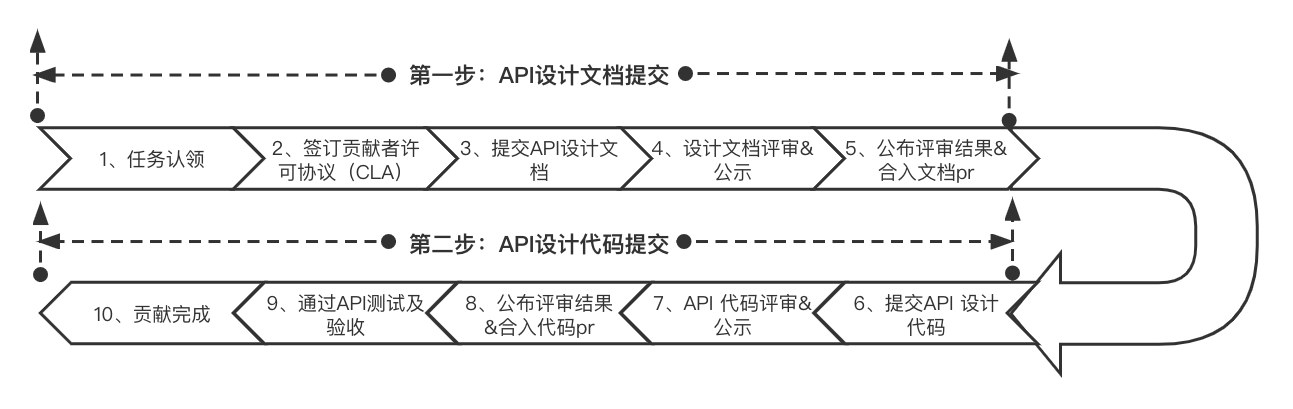
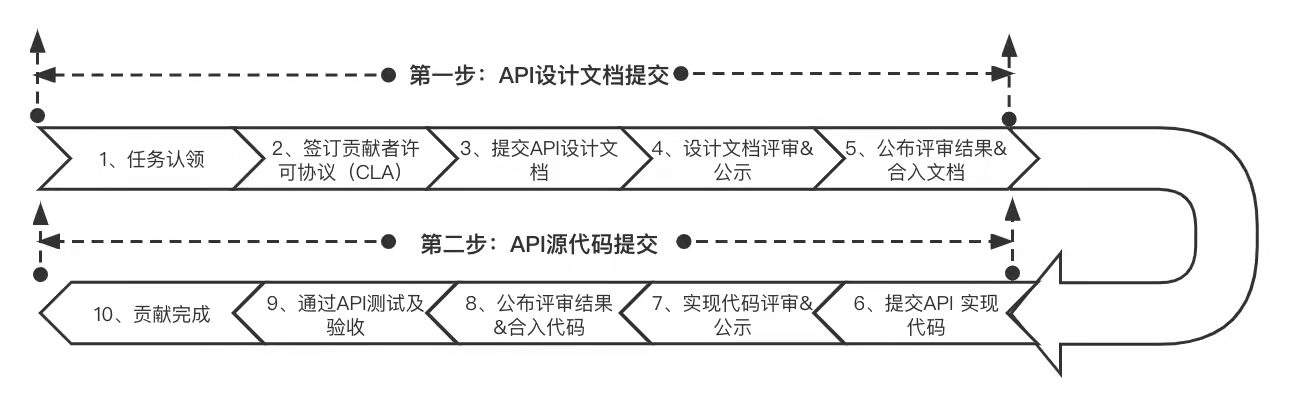
modify api_contributing_guides_cn.rst

diff --git a/docs/dev_guides/api_contributing_guides/api_contributing_guides_cn.rst b/docs/dev_guides/api_contributing_guides/api_contributing_guides_cn.rst
@@ -32,7 +32,7 @@ API 贡献流程如下
 
 当你想要发起一个新增API的贡献时，你需要先提交一份新增API 设计文档，并确保你的API 设计遵守 `飞桨API 设计及命名规范 <./api_design_guidelines_standard_cn.html>`_ 。API设计文档的目的是为了社区开发者更容易的参与开源项目共建，开发者通过与飞桨官方和社区其他用户进行广泛的交流，完善设计方案和pr请求，在后续提交实现代码之前确保API设计方案与飞桨设计理念一致，也让后续代码评审及代码合入变得更加容易。
 
-同时，飞桨为大家提供了 `API 设计文档模版 <https://github.com/PaddlePaddle/community/tree/master/rfcs/APIs/api_design_template.md>`_ ，你可以使用这份模版撰写API设计文档。完成后，你需要将设计文档提交至 `Github开发者社区仓库 <https://github.com/PaddlePaddle/community/tree/master/rfcs/APIs>`_ 。
+同时，飞桨为大家提供了 `API 设计文档模版 <https://github.com/PaddlePaddle/community/tree/master/rfcs/APIs/api_design_template.md>`_ 和 `API 设计文档demo <https://github.com/PaddlePaddle/community/blob/master/rfcs/APIs/20200301_api_design_for_quantile.md>`_ ，你可以使用这份模版撰写API设计文档。完成后，你需要将设计文档提交至 `Github开发者社区仓库 <https://github.com/PaddlePaddle/community/tree/master/rfcs/APIs>`_ ，并根据 `本地开发指南 <https://www.paddlepaddle.org.cn/documentation/docs/zh/develop/dev_guides/git_guides/local_dev_guide_cn.html>`_ 提交PR。
 
 **4、设计文档评审&公示**
 
@@ -41,7 +41,7 @@ API 贡献流程如下
 如果你的API功能比较复杂，官方可能会在社区中针对API设计文档发起评审会议，会提前在pr评论区公布会议时间、会议地址、参会人、议题等内容，请及时关注pr 中最新动态，你也可以在评论区自行申请评审会。会议结束后，我们会在pr中发出会议结论。
 
 
-**5、公布评审结果，合入文档pr**
+**5、公布评审结果&合入文档**
 
 当设计文档评审&公示通过后，官方会在开源社区中公布评审结果，你的API 设计文档将会合入至飞桨开发者社区仓库。
 
@@ -63,28 +63,28 @@ API 贡献流程如下
 +---------------+--------------------------+-------------------------------------------------------------------+
 | 4、API单测代码  |    API验收标准            |  `Github飞桨训练框架仓库 <https://github.com/PaddlePaddle/Paddle>`_  |
 +---------------+--------------------------+-------------------------------------------------------------------+
+| 4、PR          |    本地开发指南            |  `本地开发指南 <https://www.paddlepaddle.org.cn/documentation/docs/zh/develop/dev_guides/git_guides/local_dev_guide_cn.html>`_  |
++---------------+--------------------------+-------------------------------------------------------------------+
 
 
 当用户完成以上代码设计后，需要将代码提交至 `Github飞桨训练框架仓库 <https://github.com/PaddlePaddle/Paddle>`_ ，并准备接受社区的评审。
 
-**7、设计代码公示&评审**
+**7、实现代码评审&公示**
 
 飞桨官方会及时安排专家进行API代码审核，代码也将接受来自开发者社区的评审，开发者可以在pr评论区进行广泛的交流，开发者对飞桨专家和其他开发者的反馈意见进行讨论并做出修改，最终评审通过后会在社区中公示3天，并准备合入。
 
-如果你的API 功能比较复杂，官方可能会在社区中针对API设计代码发起评审会议，会提前在pr评论区公布会议时间、会议地址、参会人、议题等内容，请及时关注pr 中最新动态，你也可以在评论区自行申请评审会。会议结束后，我们会在pr 中发出会议结论。
+如果你的API 功能比较复杂，官方可能会在社区中针对API实现代码发起评审会议，会提前在pr评论区公布会议时间、会议地址、参会人、议题等内容，请及时关注pr 中最新动态，你也可以在评论区自行申请评审会。会议结束后，我们会在pr 中发出会议结论。
 
-**8、公布评审结果，文档合入代码pr**
+**8、公布评审结果&合入代码**
 
-当设计文档评审&公示通过后，官方会在开源社区中公布评审结果，你的API 设计代码将会合入至 `Github飞桨训练框架仓库 <https://github.com/PaddlePaddle/Paddle>`_ 。
+当设计文档评审&公示通过后，官方会在开源社区中公布评审结果，你的API 实现代码将会合入至 `Github飞桨训练框架仓库 <https://github.com/PaddlePaddle/Paddle>`_ 。
 
 **9、通过API测试及验收**
 
 当你的代码合入 `Github飞桨训练框架仓库 <https://github.com/PaddlePaddle/Paddle>`_ 后，官方会对你的代码进行集成测试，并通知你测试结果。如果测试通过，恭喜你贡献流程已经全部完成，如果测试不通过，我们会联系你进行代码修复，请及时关注github上的最新动态；
 
 **10、贡献完成**
-到此，您的贡献流程结束，感谢您的贡献！
-
-
+感谢您的贡献！
 
 **引用文献**
 ..  toctree::
